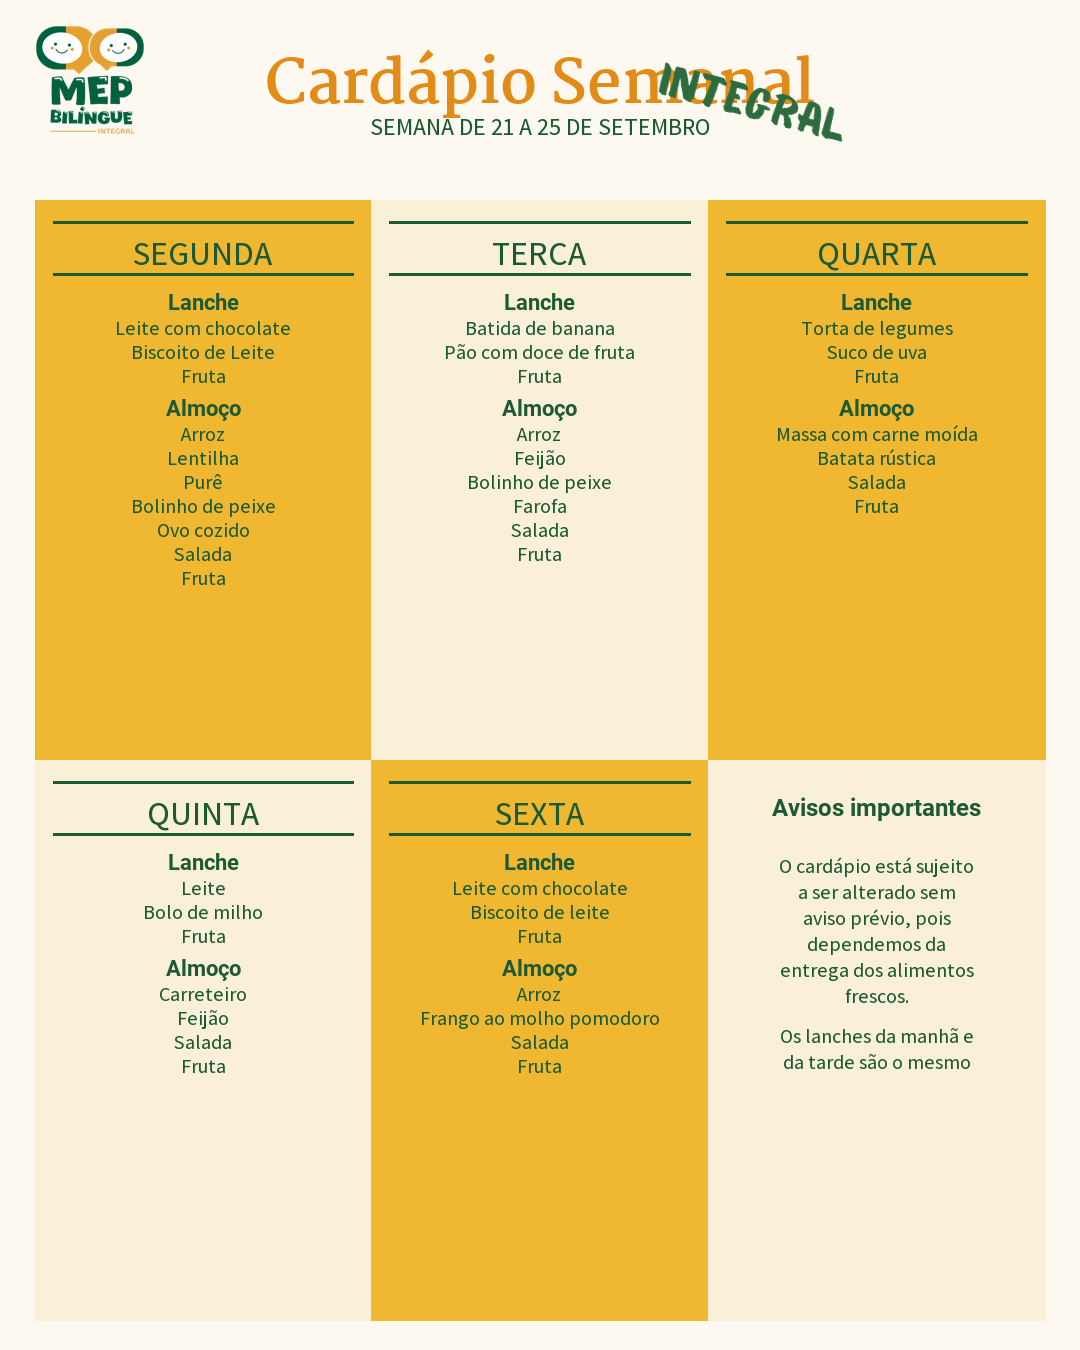
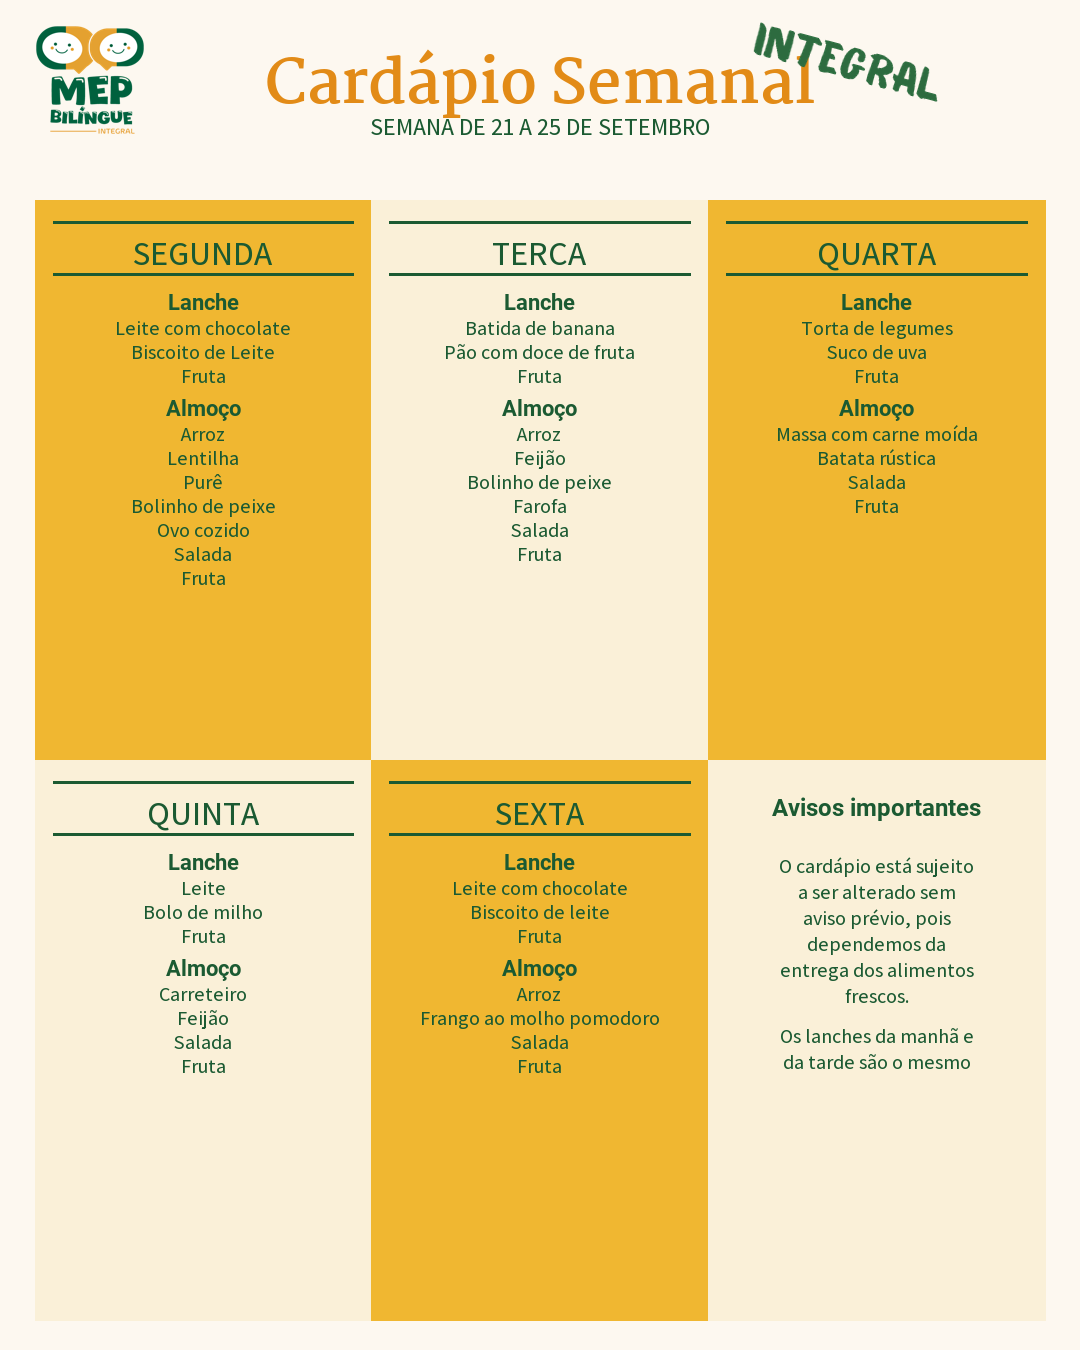
fix: stamp overlap position

Changed region(s): [[0.6111, 0.0, 0.8556, 0.1244]]

diff --git a/image_generator.py b/image_generator.py
@@ -106,10 +106,10 @@ def generate_menu_image(menu_title, date_str, menu_data, output_path):
         txt_draw = ImageDraw.Draw(txt_img)
         txt_draw.text((5, 5), stamp_text, font=font_stamp, fill=color_stamp_green)
         rotated = txt_img.rotate(-15, expand=True, resample=Image.BICUBIC)
-        # Position: top-right corner, between title and date, clear of everything
-        stamp_x = width - rotated.width - 80
-        stamp_y = 55
-        img.paste(rotated, (stamp_x, stamp_y), rotated)
+        # Position: Overlap the right side of the title
+        stamp_x = title_x + title_w - 80
+        stamp_y = 15
+        img.paste(rotated, (int(stamp_x), int(stamp_y)), rotated)
 
     # =========================================================
     # GRID AREA — NO GAPS between columns or rows
